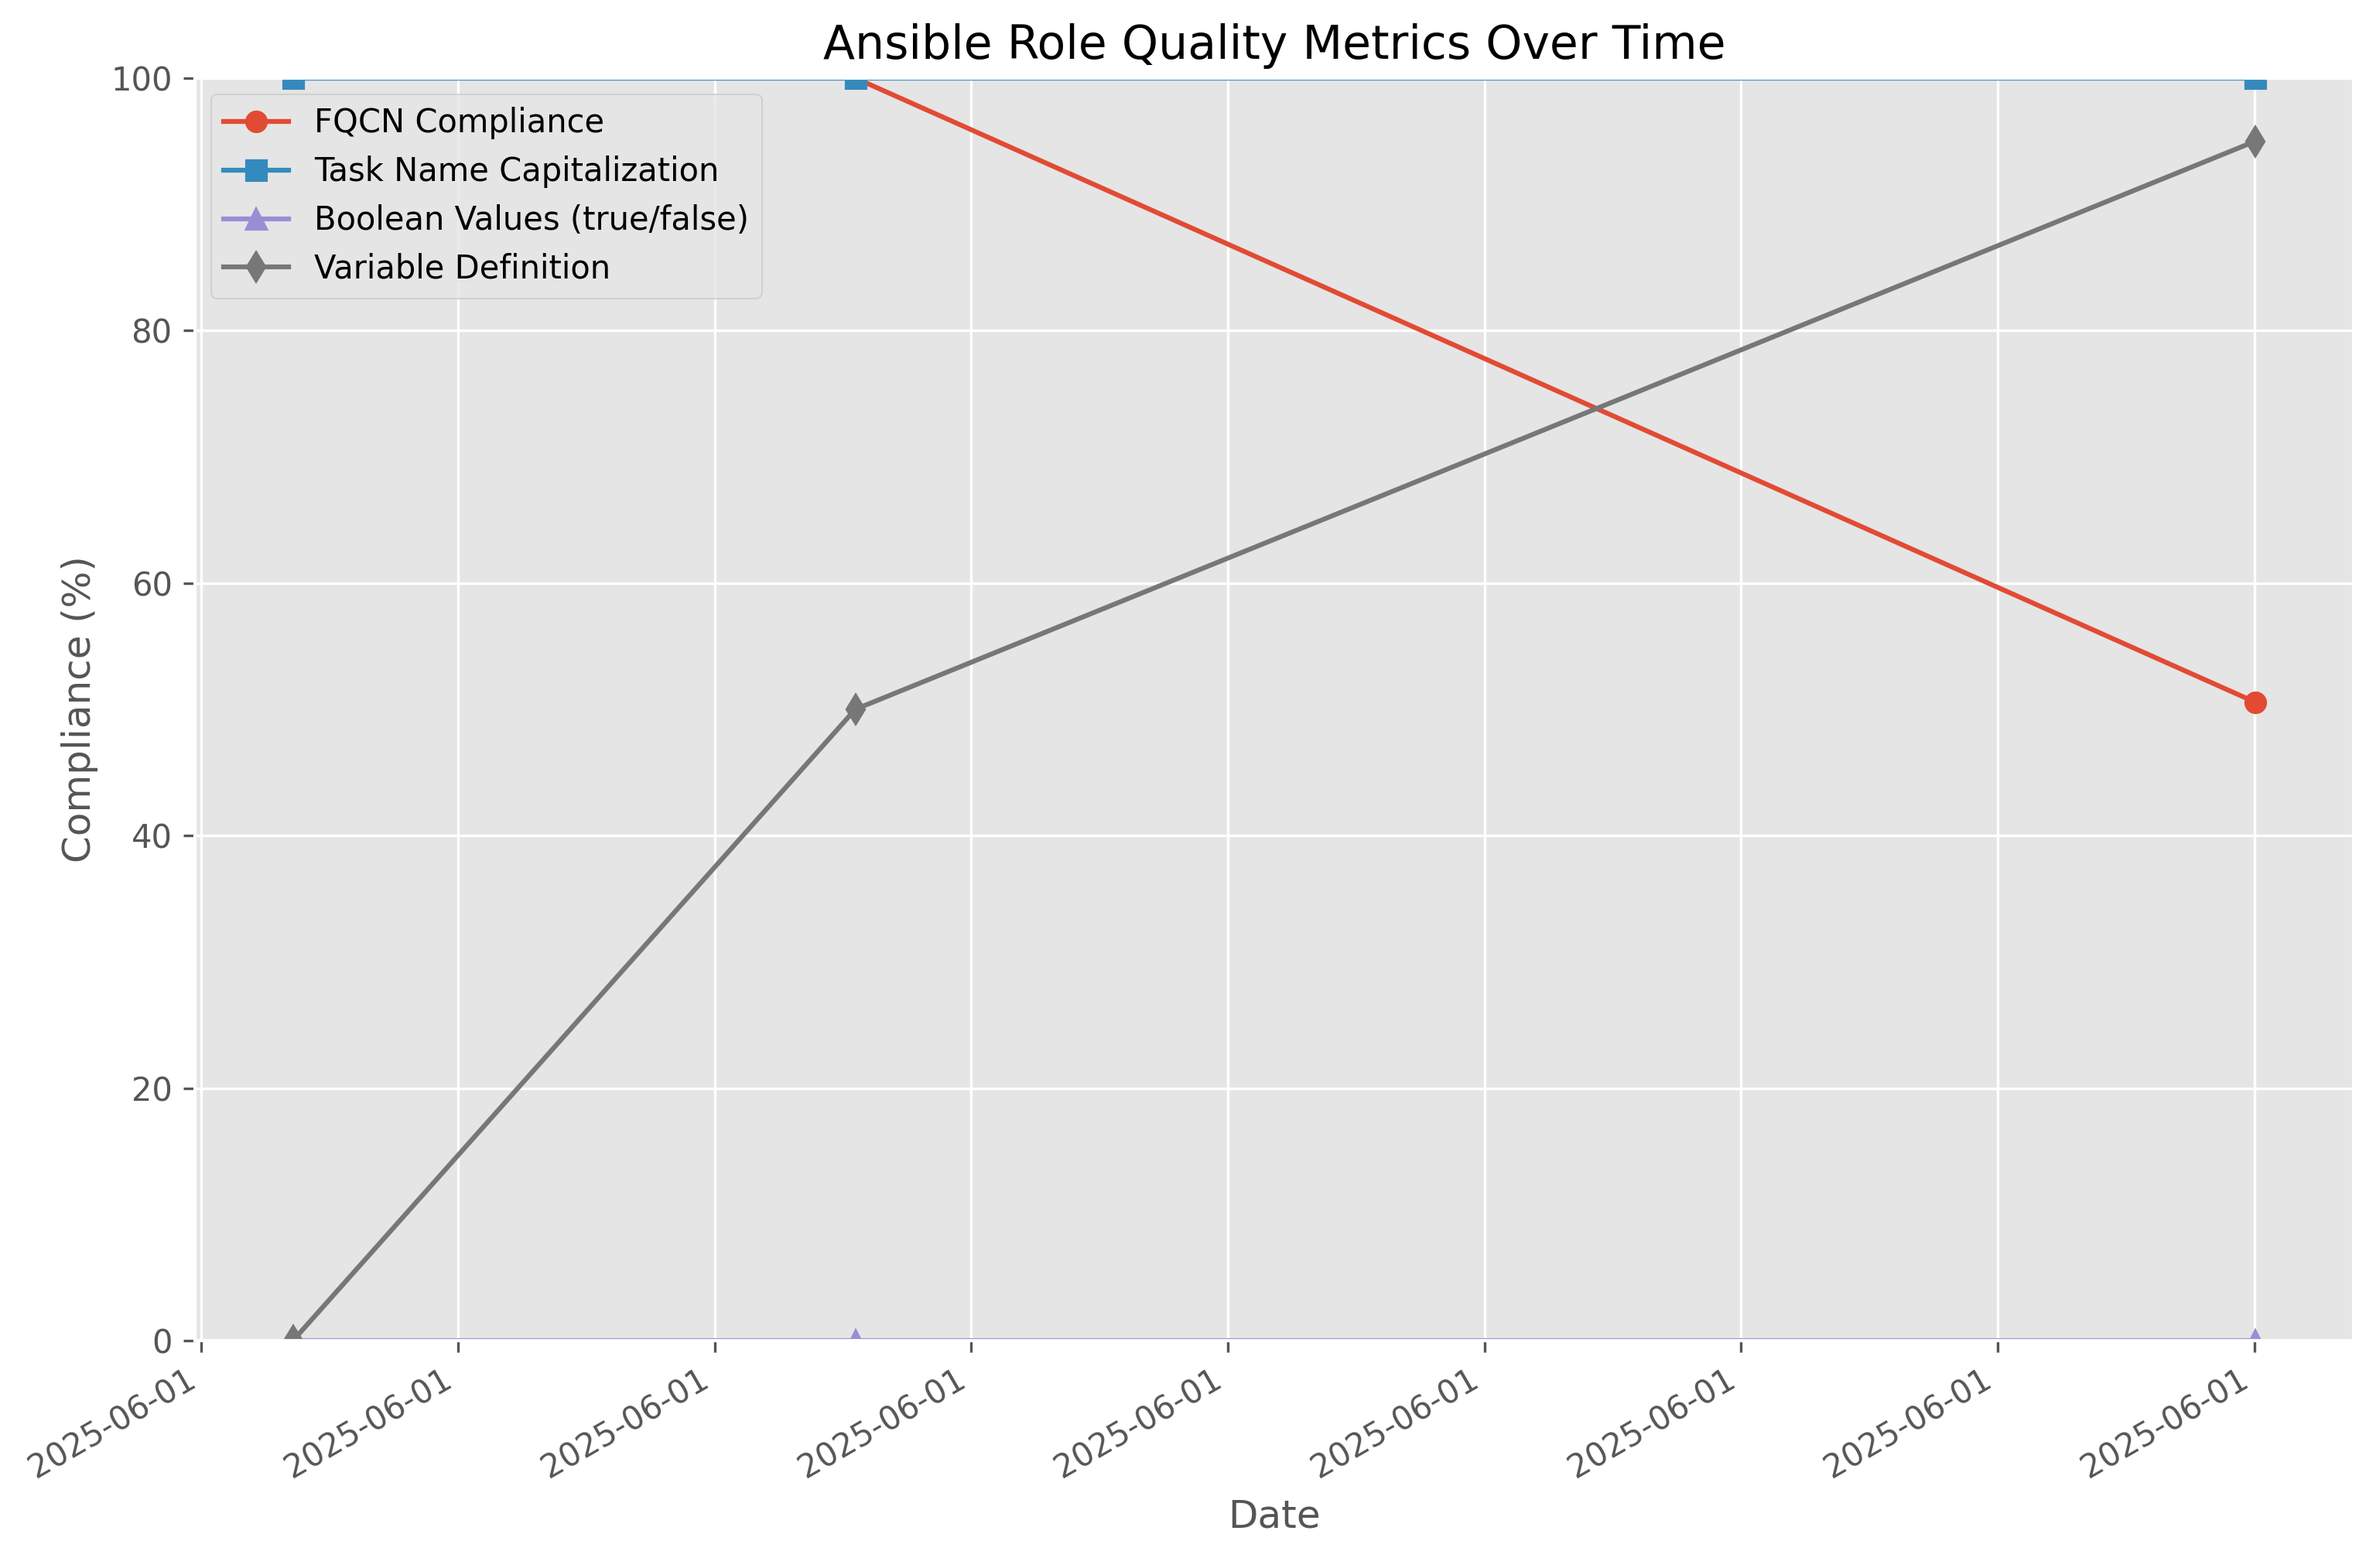
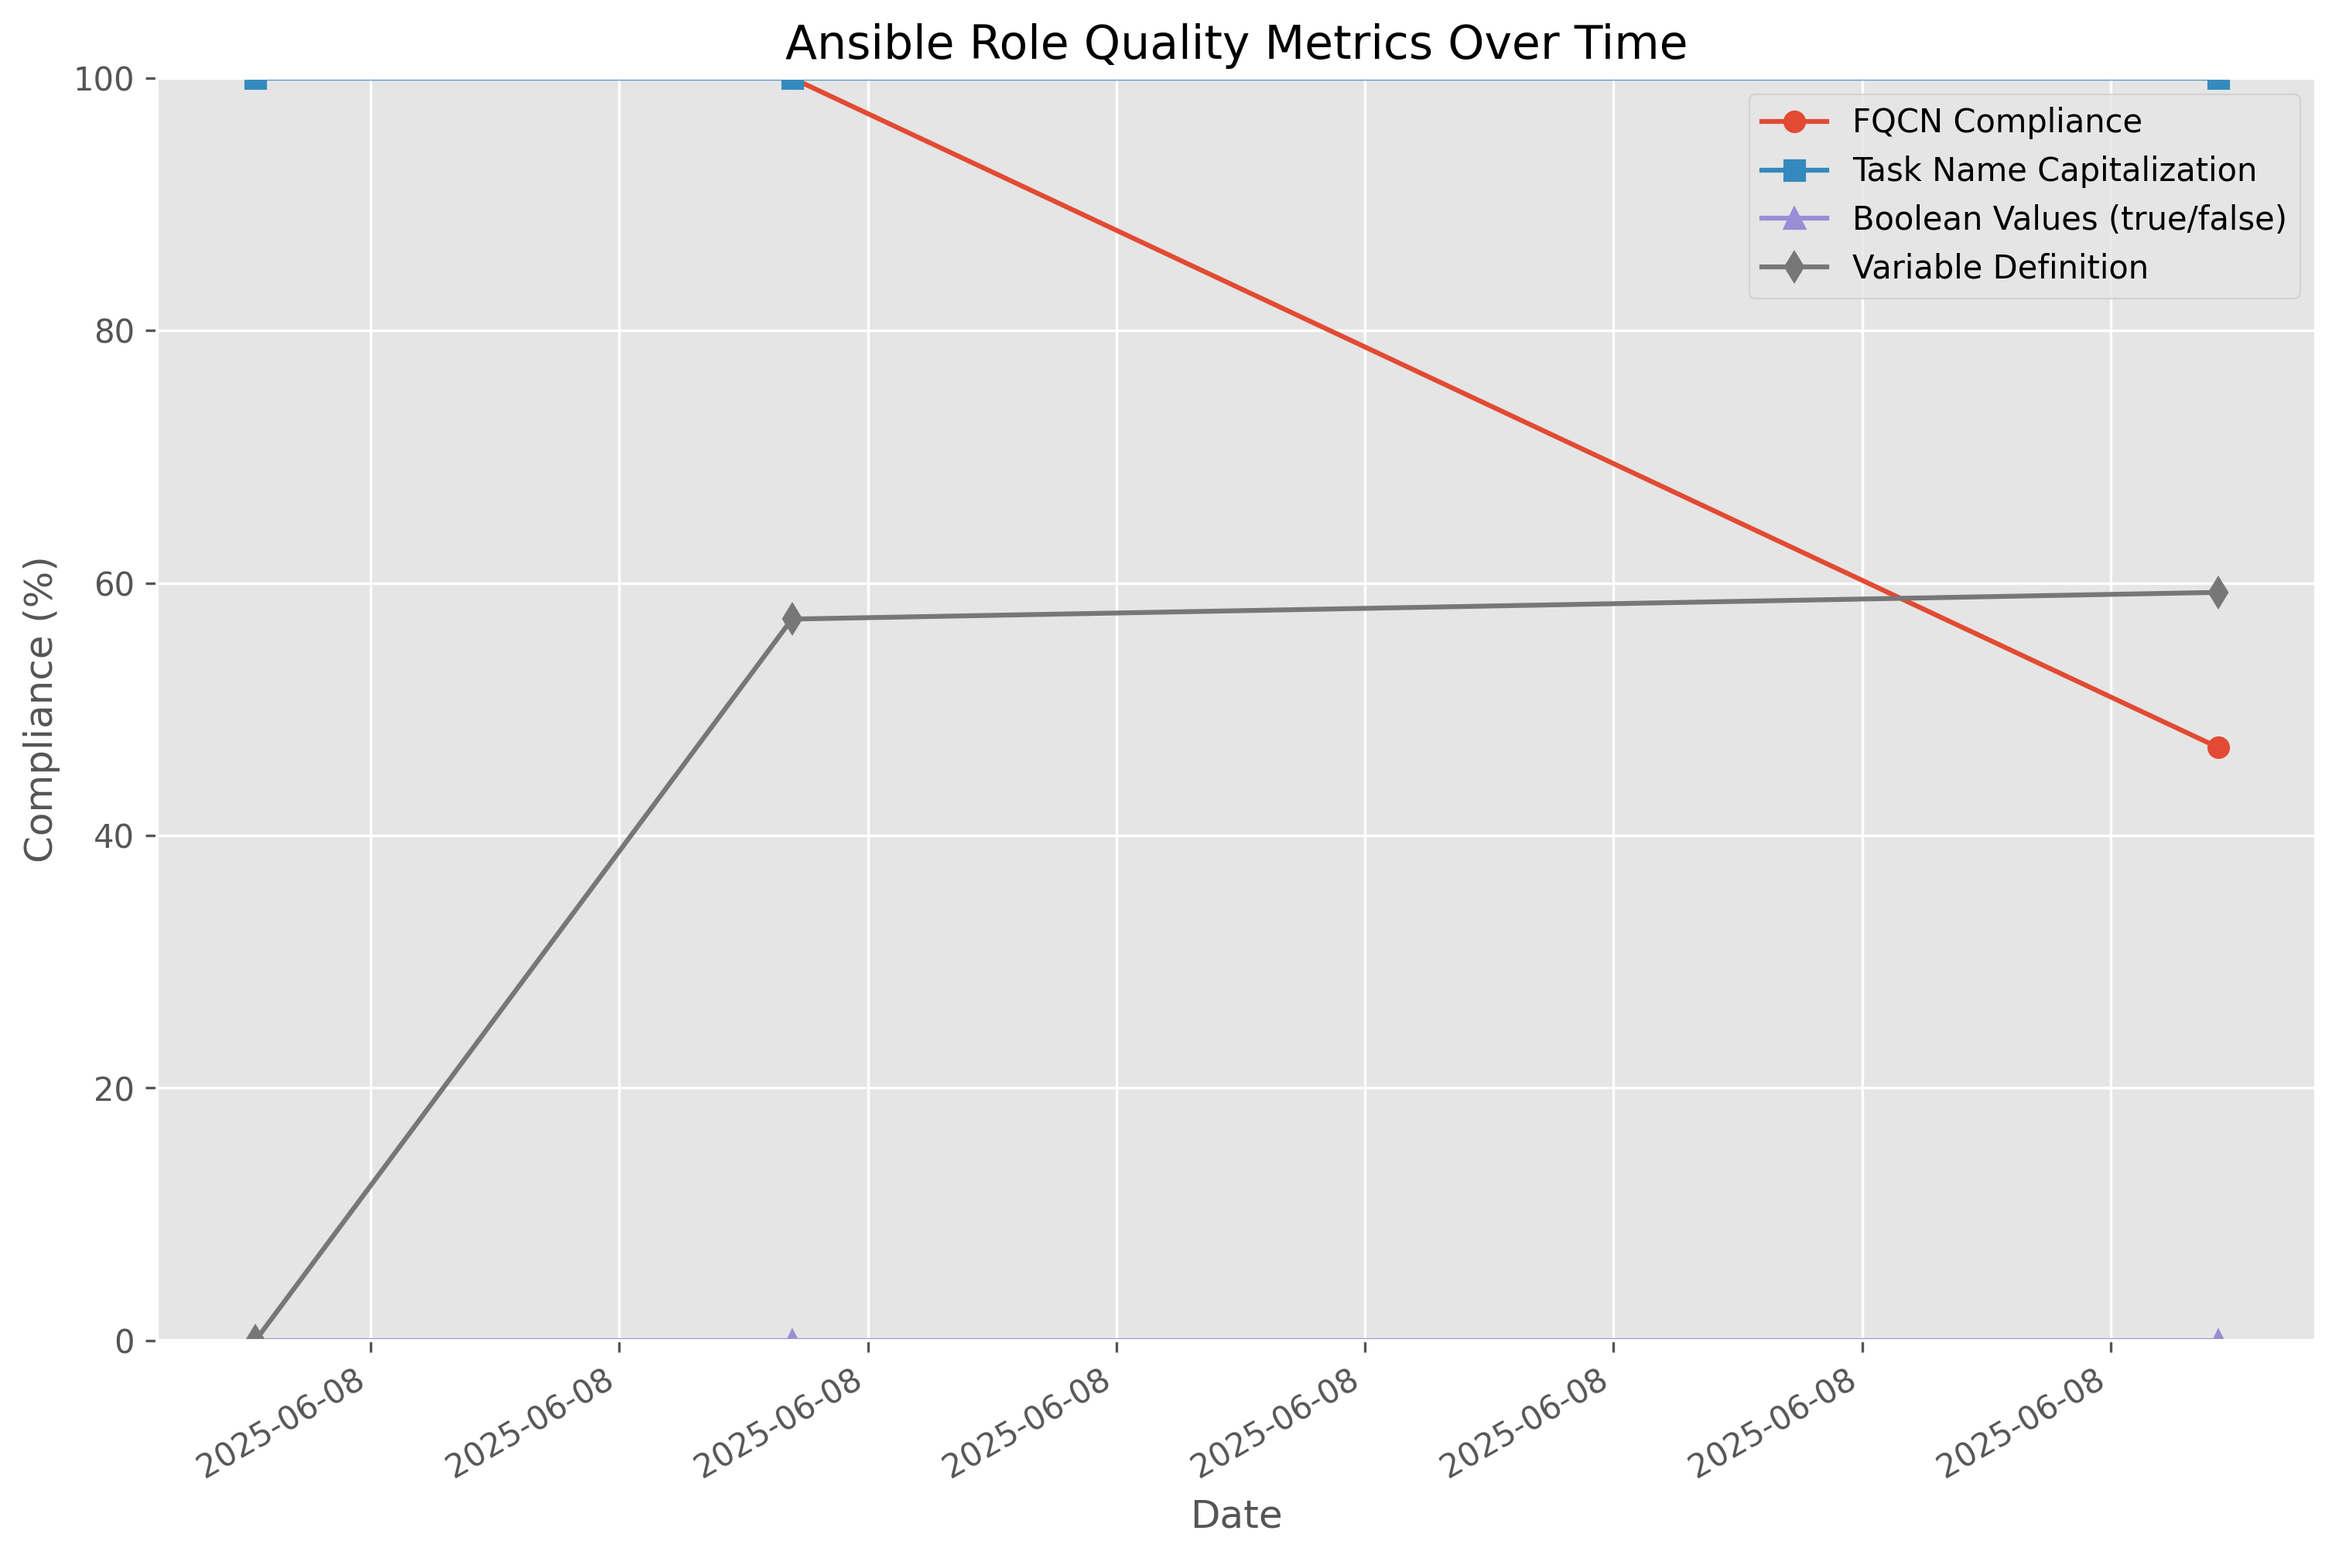
Update metrics (automated) 86381e575e3cb567ae7d61f2b827ec3665fe9a28

diff --git a/metrics/metrics_summary.md b/metrics/metrics_summary.md
@@ -1,15 +1,15 @@
 # Chef to Ansible Conversion Metrics
 
-Last updated: 2025-06-01 00:32:32
+Last updated: 2025-06-08 00:29:45
 
 ## Latest Compliance Metrics
 
 | Metric | Value |
 |--------|-------|
-| FQCN Compliance (%) | 50.56% |
+| FQCN Compliance (%) | 46.99% |
 | Task Name Capitalization (%) | 100.00% |
 | Boolean Values (true/false) (%) | 0.00% |
-| Variable Definition (%) | 95.00% |
+| Variable Definition (%) | 59.26% |
 
 ## Compliance Metrics Over Time
 
